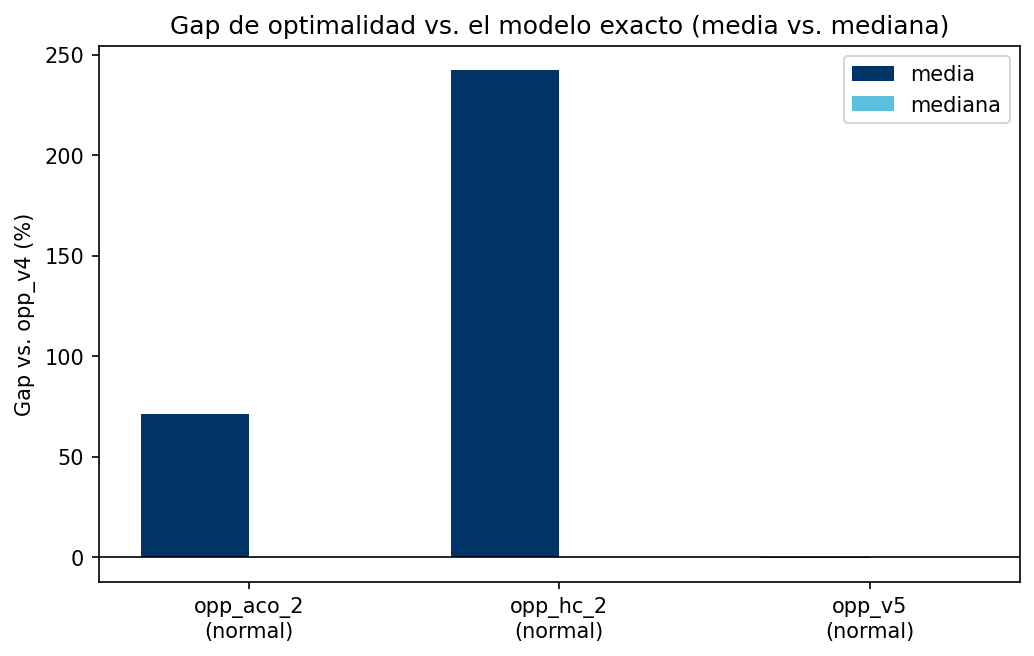
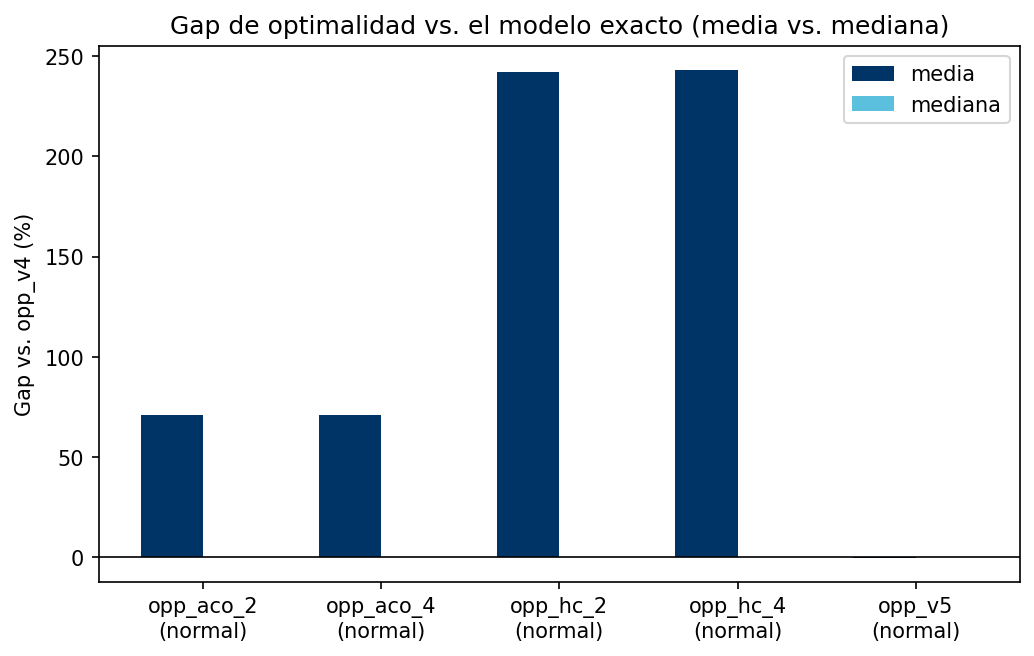
Add Seed-stability to analysis

diff --git a/analysis/load.py b/analysis/load.py
@@ -22,7 +22,13 @@ import re
 
 import pandas as pd
 
-from analysis.config import LATEST_FILE_OVERRIDES, MODEL_DIRS, OUTPUTS_ROOT, SCENARIOS
+from analysis.config import (
+    LATEST_FILE_OVERRIDES,
+    MODEL_DIRS,
+    OUTPUTS_ROOT,
+    SCENARIOS,
+    STABILITY_MODELS,
+)
 
 _RUN_TIMESTAMP_RE = re.compile(r"(\d{8}_\d{6})")
 
@@ -132,6 +138,55 @@ def load_all(verbose: bool = True) -> pd.DataFrame:
     df_master = pd.concat(frames, ignore_index=True, sort=False)
 
     for col in NUMERIC_COLUMNS:
+        if col in df_master.columns:
+            df_master[col] = pd.to_numeric(df_master[col], errors="coerce")
+
+    return df_master
+
+
+def load_stability(verbose: bool = True) -> pd.DataFrame:
+    """
+    Loads the latest seed-stability CSV (analysis/run_stability_study.py) per
+    heuristic model in STABILITY_MODELS, from tests/outputs/<model>/stability/.
+
+    Separate from load_all() because the schema is different: one row per
+    (instance, seed) solve of a SHARED instance (tests/shared_scenarios/
+    instances.py), not one row per unittest test method -- there's no
+    "scenario" (normal/stress) dimension, and "instance" here means one of
+    the 3 shared instances, not a test method name.
+    """
+    frames = []
+    missing = []
+    dropped_report = []
+
+    for label in STABILITY_MODELS:
+        model_dir = MODEL_DIRS[label]
+        path, dropped = _pick_csv(model_dir, "stability")
+        if path is None:
+            missing.append(label)
+            continue
+        if dropped:
+            dropped_report.append((label, path, dropped))
+
+        df = pd.read_csv(path)
+        df["model"] = label
+        df["source_file"] = os.path.basename(path)
+        frames.append(df)
+
+    if verbose:
+        for label in missing:
+            print(f"[load_stability] No stability CSV found for model={label} -- "
+                  f"run analysis/run_stability_study.py first. Skipping.")
+        for label, chosen, dropped in dropped_report:
+            print(f"[load_stability] model={label}: using {os.path.basename(chosen)}, "
+                  f"ignoring {len(dropped)} older run(s): "
+                  f"{[os.path.basename(d) for d in dropped]}")
+
+    if not frames:
+        return pd.DataFrame()
+
+    df_master = pd.concat(frames, ignore_index=True, sort=False)
+    for col in ("seed", "obj_val", "elapsed"):
         if col in df_master.columns:
             df_master[col] = pd.to_numeric(df_master[col], errors="coerce")
 

diff --git a/analysis/metrics.py b/analysis/metrics.py
@@ -180,6 +180,49 @@ def convergence_table(df: pd.DataFrame) -> pd.DataFrame:
     return out.reset_index()
 
 
+def stability_table(df: pd.DataFrame) -> pd.DataFrame:
+    """
+    Aggregates analysis.load.load_stability()'s per-(model, instance, seed)
+    rows into mean/std/best/worst/gap_best_worst_pct per (model, instance) --
+    how much a single heuristic's OWN randomness moves obj_val across seeds
+    for the exact same instance, distinct from quality_gap_table (accuracy
+    vs. the exact model). success_rate_pct uses ALL rows (not just "optimal"/
+    "feasible" ones) as the denominator, same reasoning as
+    success_rate_table: a seed that comes back infeasible must count against
+    the model, not be silently dropped before the mean/std are computed.
+
+    gap_best_worst_pct is (worst - best) / best * 100 -- 0% means every seed
+    landed on the exact same obj_val (perfectly repeatable for this
+    instance); this is undefined (NaN) when there isn't at least one row
+    with a numeric obj_val (e.g. every seed came back infeasible).
+    """
+    empty = pd.DataFrame(columns=[
+        "model", "instance", "n_seeds", "n_ok", "success_rate_pct",
+        "mean_obj_val", "std_obj_val", "best_obj_val", "worst_obj_val",
+        "gap_best_worst_pct",
+    ])
+    if df.empty:
+        return empty
+
+    g = df.groupby(["model", "instance"])
+    out = g["seed"].count().rename("n_seeds").to_frame()
+    out["n_ok"] = g["obj_val"].apply(lambda s: s.notna().sum())
+    out["success_rate_pct"] = (out["n_ok"] / out["n_seeds"] * 100).round(1)
+
+    ok_obj = df.dropna(subset=["obj_val"]).groupby(["model", "instance"])["obj_val"]
+    out["mean_obj_val"] = ok_obj.mean().round(2)
+    out["std_obj_val"] = ok_obj.std().round(2)
+    out["best_obj_val"] = ok_obj.min()
+    out["worst_obj_val"] = ok_obj.max()
+    out["gap_best_worst_pct"] = np.where(
+        out["best_obj_val"] > 0,
+        (out["worst_obj_val"] - out["best_obj_val"]) / out["best_obj_val"] * 100,
+        np.nan,
+    )
+    out["gap_best_worst_pct"] = out["gap_best_worst_pct"].round(2)
+    return out.reset_index()
+
+
 def profiling_table(df: pd.DataFrame, exact_model: str = EXACT_MODEL) -> pd.DataFrame:
     """
     For the exact model only: what share of total_time is spent inside the

diff --git a/analysis/run_analysis.py b/analysis/run_analysis.py
@@ -19,7 +19,7 @@ import os
 import pandas as pd
 
 from analysis.config import ANALYSIS_OUTPUT_DIR, EXACT_MODEL
-from analysis.load import load_all
+from analysis.load import load_all, load_stability
 from analysis.metrics import (
     congestion_reduction_table,
     congestion_table,
@@ -29,6 +29,7 @@ from analysis.metrics import (
     profiling_table,
     quality_gap_table,
     sla_table,
+    stability_table,
     success_rate_table,
     time_stats_table,
 )
@@ -75,6 +76,9 @@ def main():
     congestion_overhead = congestion_reduction_table(df)
     corr_global = correlation_table(df, level="global")
     corr_scenario = correlation_table(df, level="scenario")
+
+    stability_df = load_stability()
+    stability = stability_table(stability_df)
 
     charts = []
     for scenario in ("normal", "stress"):
@@ -128,6 +132,10 @@ def main():
         f.write(_md_table(corr_global))
         f.write("\n### 6.2 Nivel escenario\n\n")
         f.write(_md_table(corr_scenario))
+
+        f.write("\n## 7. Estabilidad frente a la semilla (30 corridas por instancia, "
+                "solo heurísticos)\n\n")
+        f.write(_md_table(stability))
 
         f.write("\n## Gráficos generados\n\n")
         for c in charts:

diff --git a/analysis/config.py b/analysis/config.py
@@ -83,6 +83,13 @@ PARAM_COLUMNS = ["N", "V", "B", "P", "C_v", "W_full", "W_ea_ta", "W_ea", "W_ta"]
 # Independent variables for the sensitivity / correlation analysis.
 CORRELATION_INDEPENDENTS = ["N", "V", "B", "C_v", "W_full", "W_ea_ta"]
 
+# Models covered by the seed-stability study (analysis/run_stability_study.py)
+# -- the 6 heuristics only, since it measures how much a model's OWN
+# randomness moves obj_val for the exact same instance, which is meaningless
+# for a deterministic exact model (opp_v4/opp_v5 always return the same
+# answer for the same instance).
+STABILITY_MODELS = ["opp_hc_2", "opp_hc_3", "opp_hc_4", "opp_aco_2", "opp_aco_3", "opp_aco_4"]
+
 # Hard-coded "latest file" overrides, mirroring the exceptions called out in
 # specs/model_analysis.md (e.g. a consolidated file that must win over any
 # later partial run, or a specific high-density stress run). Keyed by

diff --git a/analysis/output/report.md b/analysis/output/report.md
@@ -8,10 +8,14 @@
 | opp_aco_2 | stress | 20 | 17 | 1 | 2 | 85.0 |
 | opp_aco_3 | normal | 12 | 12 | 0 | 0 | 100.0 |
 | opp_aco_3 | stress | 20 | 17 | 1 | 2 | 85.0 |
+| opp_aco_4 | normal | 52 | 52 | 0 | 0 | 100.0 |
+| opp_aco_4 | stress | 22 | 14 | 1 | 7 | 63.6 |
 | opp_hc_2 | normal | 46 | 46 | 0 | 0 | 100.0 |
 | opp_hc_2 | stress | 43 | 32 | 11 | 0 | 74.4 |
 | opp_hc_3 | normal | 6 | 6 | 0 | 0 | 100.0 |
 | opp_hc_3 | stress | 20 | 17 | 3 | 0 | 85.0 |
+| opp_hc_4 | normal | 50 | 50 | 0 | 0 | 100.0 |
+| opp_hc_4 | stress | 13 | 11 | 2 | 0 | 84.6 |
 | opp_v4 | normal | 46 | 45 | 1 | 0 | 97.8 |
 | opp_v4 | stress | 8 | 1 | 7 | 0 | 12.5 |
 | opp_v5 | normal | 53 | 52 | 1 | 0 | 98.1 |
@@ -25,13 +29,29 @@
 | opp_aco_2 | stress | 54.83279884562773 | 53.908574179657755 | 168.5711851119995 | 17 |
 | opp_aco_3 | normal | 0.025555570920308385 | 0.04387347950663957 | 0.1223242282867431 | 12 |
 | opp_aco_3 | stress | 176.54810125687544 | 178.81893384318866 | 588.2318289279938 | 17 |
+| opp_aco_4 | normal | 0.2268606011684124 | 0.30490133187022567 | 1.3257269859313965 | 52 |
+| opp_aco_4 | stress | 179.25389174052648 | 374.2022925142759 | 1437.7297501564026 | 14 |
 | opp_hc_2 | normal | 0.008851419324460201 | 0.0043273053102638 | 0.0224010944366455 | 46 |
 | opp_hc_2 | stress | 2.9689269065856934 | 8.172350553423682 | 43.730140209198 | 32 |
 | opp_hc_3 | normal | 0.0038505395253499003 | 0.002514931435436244 | 0.0064420700073242 | 6 |
 | opp_hc_3 | stress | 0.563104419147267 | 0.4753807938995693 | 1.4223179817199707 | 17 |
+| opp_hc_4 | normal | 0.008774585723876906 | 0.003065250933611688 | 0.0188100337982177 | 50 |
+| opp_hc_4 | stress | 0.4299586686221036 | 0.461716348069904 | 1.34344220161438 | 11 |
 | opp_v4 | normal | 2.048522546556261 | 5.831397336622343 | 26.211292028427124 | 45 |
 | opp_v4 | stress | 0.1135659217834472 | nan | 0.1135659217834472 | 1 |
-| opp_v5 | normal | 0.1387551335188058 | 0.11210032746258411 | 0.6508488655090332 | 52 |
+| opp_v5 | normal | 0.15018961521295396 | 0.17979811670383003 | 1.217266082763672 | 52 |
+
+## 2.1 Memoria pico (RAM, MB, solo casos OK)
+
+_(sin datos)_
+
+## 2.2 Nivel de servicio (% de órdenes sin tardanza, solo casos con dato)
+
+_(sin datos)_
+
+## 2.3 Iteración de convergencia (solo Hill Climbing / ACO)
+
+_(sin datos)_
 
 ## 3. Profiling del modelo exacto (opp_v4)
 
@@ -45,26 +65,32 @@
 | model | scenario | mean_gap_pct | median_gap_pct | std_gap_pct | max_gap_pct | n_matched |
 | --- | --- | --- | --- | --- | --- | --- |
 | opp_aco_2 | normal | 71.22773178522324 | 0.0 | 199.87217644021445 | 472.0 | 9 |
+| opp_aco_4 | normal | 71.22773178522324 | 0.0 | 199.87217644021445 | 472.0 | 9 |
 | opp_hc_2 | normal | 242.2202579436687 | 0.0 | 533.1439832436334 | 1180.0 | 9 |
+| opp_hc_4 | normal | 242.9510335623367 | 0.0 | 532.7824643414737 | 1180.0 | 9 |
 | opp_v5 | normal | -0.2555403797941615 | 0.0 | 1.4227886198343525 | 7.735572291461509e-11 | 31 |
 
 ## 5. Congestión (opp_hc_3 / opp_aco_3 vs. sus baselines v2)
 
 ### 5.1 Espera media por congestión
 
-| model | scenario | mean_congestion_wait | std_congestion_wait | max_congestion_wait | n | congestion_modeled |
-| --- | --- | --- | --- | --- | --- | --- |
-| opp_aco_2 | normal | nan | nan | nan | 0 | False |
-| opp_aco_2 | stress | nan | nan | nan | 0 | False |
-| opp_aco_3 | normal | 0.75 | 1.5 | 3.0 | 4 | True |
-| opp_aco_3 | stress | 0.75 | 1.61245154965971 | 4.0 | 16 | True |
-| opp_hc_2 | normal | nan | nan | nan | 0 | False |
-| opp_hc_2 | stress | nan | nan | nan | 0 | False |
-| opp_hc_3 | normal | 1.0 | 1.7320508075688772 | 3.0 | 3 | True |
-| opp_hc_3 | stress | 1.125 | 2.4186773244895647 | 6.0 | 16 | True |
-| opp_v4 | normal | nan | nan | nan | 0 | False |
-| opp_v4 | stress | nan | nan | nan | 0 | False |
-| opp_v5 | normal | nan | nan | nan | 0 | False |
+| model | scenario | mean_congestion_wait | std_congestion_wait | max_congestion_wait | mean_collisions | max_collisions | n | congestion_modeled |
+| --- | --- | --- | --- | --- | --- | --- | --- | --- |
+| opp_aco_2 | normal | nan | nan | nan | nan | nan | 0 | False |
+| opp_aco_2 | stress | nan | nan | nan | nan | nan | 0 | False |
+| opp_aco_3 | normal | 0.75 | 1.5 | 3.0 | nan | nan | 4 | True |
+| opp_aco_3 | stress | 0.75 | 1.61245154965971 | 4.0 | nan | nan | 16 | True |
+| opp_aco_4 | normal | nan | nan | nan | nan | nan | 0 | False |
+| opp_aco_4 | stress | nan | nan | nan | nan | nan | 0 | False |
+| opp_hc_2 | normal | nan | nan | nan | nan | nan | 0 | False |
+| opp_hc_2 | stress | nan | nan | nan | nan | nan | 0 | False |
+| opp_hc_3 | normal | 1.0 | 1.7320508075688772 | 3.0 | nan | nan | 3 | True |
+| opp_hc_3 | stress | 1.125 | 2.4186773244895647 | 6.0 | nan | nan | 16 | True |
+| opp_hc_4 | normal | nan | nan | nan | nan | nan | 0 | False |
+| opp_hc_4 | stress | nan | nan | nan | nan | nan | 0 | False |
+| opp_v4 | normal | nan | nan | nan | nan | nan | 0 | False |
+| opp_v4 | stress | nan | nan | nan | nan | nan | 0 | False |
+| opp_v5 | normal | nan | nan | nan | nan | nan | 0 | False |
 
 ### 5.2 Sobrecosto de tiempo por modelar congestión
 
@@ -83,10 +109,12 @@
 | --- | --- | --- | --- | --- | --- | --- | --- |
 | opp_aco_2 | 0.5246 | 0.839 | 0.4658 | 0.5868 | 0.5263 | -0.3711 | 65 |
 | opp_aco_3 | 0.5975 | 0.3993 | 0.3763 | 0.5951 | 0.4058 | -0.187 | 21 |
+| opp_aco_4 | 0.8413 | 0.2771 | 0.5479 | 0.4085 | 0.3107 | -0.1858 | 66 |
 | opp_hc_2 | 0.6999 | 0.6658 | 0.3984 | 0.5963 | 0.2339 | -0.173 | 78 |
 | opp_hc_3 | 0.6944 | 0.1095 | 0.2999 | 0.8049 | 0.4237 | -0.2316 | 20 |
+| opp_hc_4 | 0.6969 | 0.3829 | 0.5534 | 0.6534 | 0.4474 | -0.2367 | 61 |
 | opp_v4 | 0.7511 | 0.4413 | 0.915 | -0.0171 | 0.4447 | -0.3873 | 23 |
-| opp_v5 | 0.8731 | 0.5342 | 0.9383 | -0.0028 | 0.5305 | -0.4691 | 22 |
+| opp_v5 | 0.8233 | 0.4794 | 0.8895 | -0.005 | 0.4797 | -0.4194 | 22 |
 
 ### 6.2 Nivel escenario
 
@@ -96,12 +124,39 @@
 | opp_aco_2 | stress | 0.2127 | 0.71 | 0.0505 | 0.1925 | nan | nan | 17 |
 | opp_aco_3 | normal | 0.2256 | 0.2256 | 0.9256 | -0.6652 | nan | 0.6652 | 4 |
 | opp_aco_3 | stress | 0.5281 | 0.2718 | 0.2383 | 0.4882 | nan | nan | 17 |
+| opp_aco_4 | normal | 0.5568 | 0.1893 | 0.1981 | -0.0673 | 0.011 | -0.1337 | 52 |
+| opp_aco_4 | stress | 0.8371 | 0.0125 | 0.429 | 0.2047 | nan | nan | 14 |
 | opp_hc_2 | normal | 0.5745 | 0.3289 | 0.2616 | 0.0451 | -0.077 | -0.4117 | 46 |
 | opp_hc_2 | stress | 0.6704 | 0.6339 | 0.3092 | 0.5854 | 0.0609 | -0.0609 | 32 |
 | opp_hc_3 | normal | 0.9629 | 0.9629 | nan | 0.9629 | nan | -0.9629 | 3 |
 | opp_hc_3 | stress | 0.6492 | -0.0672 | 0.1571 | 0.7561 | nan | nan | 17 |
+| opp_hc_4 | normal | 0.5246 | 0.2569 | 0.158 | 0.0433 | -0.0593 | -0.2547 | 50 |
+| opp_hc_4 | stress | 0.5938 | -0.0131 | 0.2965 | 0.6237 | 0.0364 | -0.0364 | 11 |
 | opp_v4 | normal | 0.843 | 0.485 | 0.918 | -0.0078 | 0.4891 | -0.4207 | 22 |
-| opp_v5 | normal | 0.8731 | 0.5342 | 0.9383 | -0.0028 | 0.5305 | -0.4691 | 22 |
+| opp_v5 | normal | 0.8233 | 0.4794 | 0.8895 | -0.005 | 0.4797 | -0.4194 | 22 |
+
+## 7. Estabilidad frente a la semilla (30 corridas por instancia, solo heurísticos)
+
+| model | instance | n_seeds | n_ok | success_rate_pct | mean_obj_val | std_obj_val | best_obj_val | worst_obj_val | gap_best_worst_pct |
+| --- | --- | --- | --- | --- | --- | --- | --- | --- | --- |
+| opp_aco_2 | medium_multi_picker | 30 | 30 | 100.0 | 5683.0 | 0.0 | 5683.0 | 5683.0 | 0.0 |
+| opp_aco_2 | small_multi_picker | 30 | 30 | 100.0 | 1338.0 | 0.0 | 1338.0 | 1338.0 | 0.0 |
+| opp_aco_2 | tiny_two_orders | 30 | 30 | 100.0 | 753.0 | 0.0 | 753.0 | 753.0 | 0.0 |
+| opp_aco_3 | medium_multi_picker | 30 | 30 | 100.0 | 5835.53 | 43.21 | 5771.0 | 5947.0 | 3.05 |
+| opp_aco_3 | small_multi_picker | 30 | 30 | 100.0 | 1338.0 | 0.0 | 1338.0 | 1338.0 | 0.0 |
+| opp_aco_3 | tiny_two_orders | 30 | 30 | 100.0 | 753.0 | 0.0 | 753.0 | 753.0 | 0.0 |
+| opp_aco_4 | medium_multi_picker | 30 | 30 | 100.0 | 5683.0 | 0.0 | 5683.0 | 5683.0 | 0.0 |
+| opp_aco_4 | small_multi_picker | 30 | 30 | 100.0 | 1338.0 | 0.0 | 1338.0 | 1338.0 | 0.0 |
+| opp_aco_4 | tiny_two_orders | 30 | 30 | 100.0 | 753.0 | 0.0 | 753.0 | 753.0 | 0.0 |
+| opp_hc_2 | medium_multi_picker | 30 | 30 | 100.0 | 5860.47 | 8.03 | 5859.0 | 5903.0 | 0.75 |
+| opp_hc_2 | small_multi_picker | 30 | 30 | 100.0 | 1338.0 | 0.0 | 1338.0 | 1338.0 | 0.0 |
+| opp_hc_2 | tiny_two_orders | 30 | 30 | 100.0 | 744.0 | 0.0 | 744.0 | 744.0 | 0.0 |
+| opp_hc_3 | medium_multi_picker | 30 | 30 | 100.0 | 5948.47 | 8.03 | 5947.0 | 5991.0 | 0.74 |
+| opp_hc_3 | small_multi_picker | 30 | 30 | 100.0 | 1338.0 | 0.0 | 1338.0 | 1338.0 | 0.0 |
+| opp_hc_3 | tiny_two_orders | 30 | 30 | 100.0 | 744.0 | 0.0 | 744.0 | 744.0 | 0.0 |
+| opp_hc_4 | medium_multi_picker | 30 | 30 | 100.0 | 5860.47 | 8.03 | 5859.0 | 5903.0 | 0.75 |
+| opp_hc_4 | small_multi_picker | 30 | 30 | 100.0 | 1338.0 | 0.0 | 1338.0 | 1338.0 | 0.0 |
+| opp_hc_4 | tiny_two_orders | 30 | 30 | 100.0 | 744.0 | 0.0 | 744.0 | 744.0 | 0.0 |
 
 ## Gráficos generados
 
